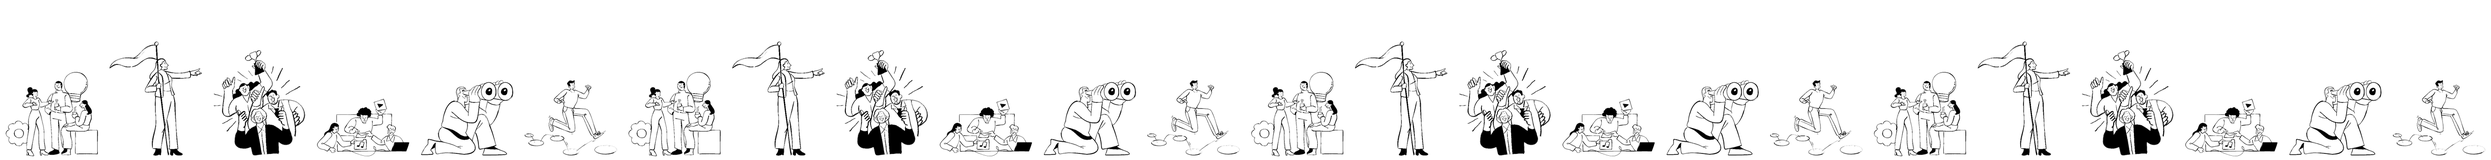
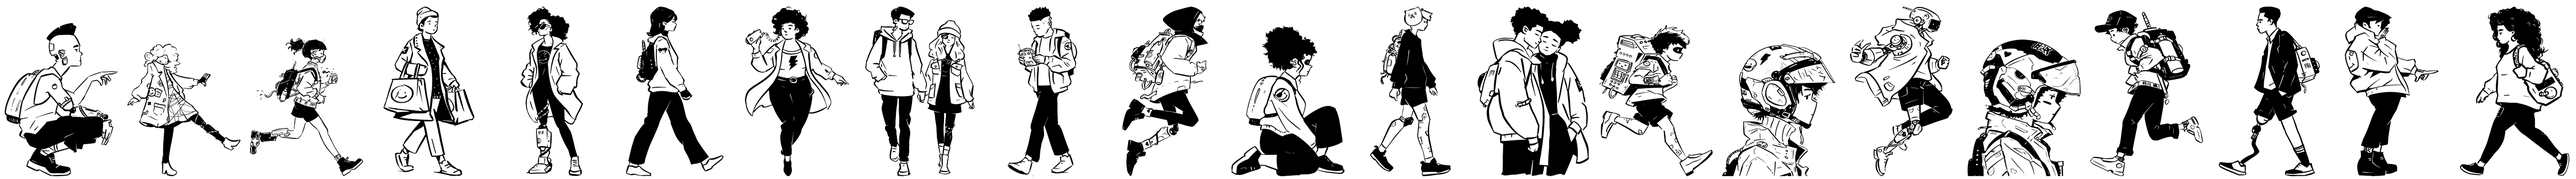
Rebuild the crowd sprite from the real character set you sent
Rendered the 24 supplied SVGs (rasterized each via a headless
Chromium screenshot, since no local SVG renderer was available) and
composited 21 of them into the crowd strip -- dropped the 3 that are
seated (two kids playing, two dog-sitting poses) since those don't
read right sliding across the footer. These are already black/white
line art natively (fill: black/white/none), so no recoloring needed
this time.

21 unique characters at rows=21 instead of the 6-repeated-4x
workaround from before -- this is a real fix for the density problem,
not an approximation of it.

Changed region(s): [[0.0, 0.0294, 1.0, 1.0], [0.0, 0.1471, 0.0312, 0.2059]]

diff --git a/frontend/src/sections/Footer.jsx b/frontend/src/sections/Footer.jsx
@@ -20,7 +20,7 @@ export default function Footer() {
       </div>
 
       <div className="relative mt-12 h-64 md:h-80">
-        <CrowdCanvas src="/crowd/peeps-strip.png" rows={24} cols={1} className="absolute inset-0 h-full w-full" />
+        <CrowdCanvas src="/crowd/peeps-strip.png" rows={21} cols={1} className="absolute inset-0 h-full w-full" />
       </div>
 
       <div className="relative mt-12 border-t border-forest/15 px-6 py-6">
